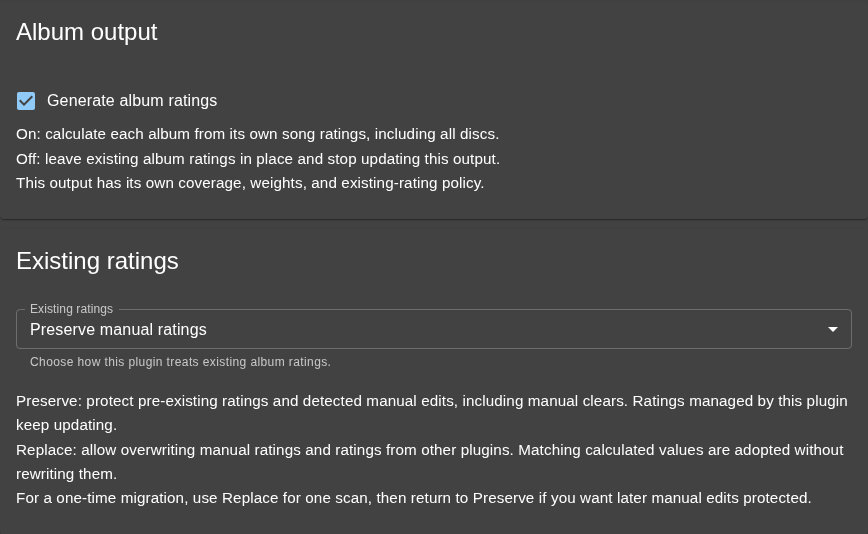
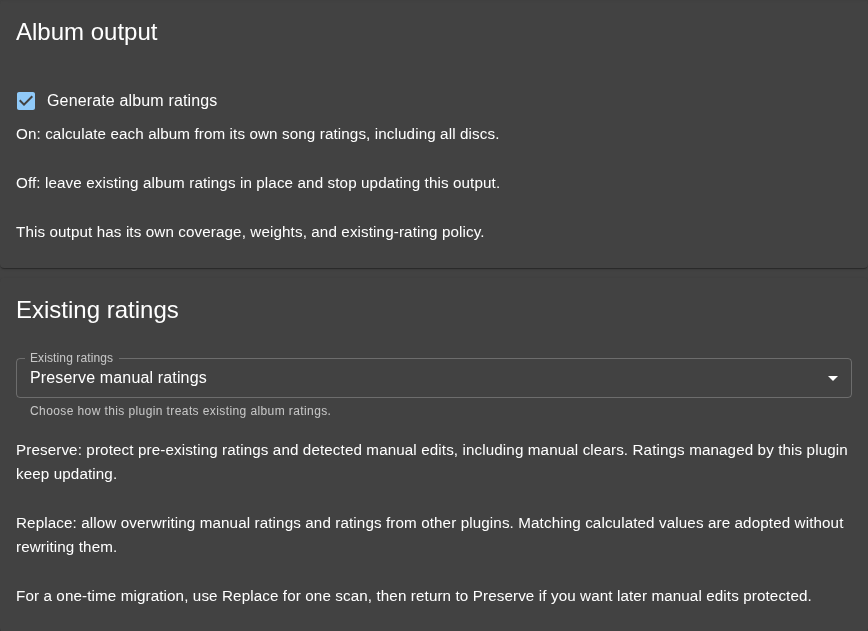
Add breathing room throughout plugin settings (v0.5.1)

diff --git a/src/plugin.js b/src/plugin.js
@@ -1,6 +1,6 @@
 "use strict";
 
-const VERSION = "0.5.0";
+const VERSION = "0.5.1";
 const NAME = "navidrome-automatic-rating-plugin";
 const AUDIT_SOURCE_FORMAT = "structured_song_ratings_v1";
 // Keep the durable namespace and host export names compatible with existing installs.

diff --git a/RELEASE_NOTES.md b/RELEASE_NOTES.md
@@ -1,27 +1,24 @@
-# navidrome-automatic-rating-plugin v0.5.0
+# navidrome-automatic-rating-plugin v0.5.1
 
-The plugin now uses its repository name in Navidrome and in its logs. New downloads are named `navidrome-automatic-rating-plugin.ndp`.
-
-## Existing installations
-
-**Keep your installed filename and plugin storage.** Verify the new download's checksum first, then rename it to your existing installed filename (usually `automatic-ratings.ndp`) and replace that package. Restart Navidrome after replacing it.
-
-Do not install both filenames. Navidrome uses the filename as the plugin ID; changing it creates a separate installation with separate settings, grants, and rating-ownership records.
-
-The displayed name will become `navidrome-automatic-rating-plugin` even when you retain the original installed filename. Storage keys, settings, and ownership records remain compatible.
+More space between configuration elements, especially on mobile screens.
 
 ## Changes
 
-- Rename the plugin's manifest/display name and log prefix to `navidrome-automatic-rating-plugin`.
-- Rename the release package and checksum to `navidrome-automatic-rating-plugin.ndp` and `navidrome-automatic-rating-plugin.ndp.sha256`.
-- Update downloads, build/release workflows, and documentation to use the new name.
-- Keep the offline audit verifier compatible with both new logs and older `Automatic Ratings:` logs.
-- Validate fresh installation under the new filename and an in-place upgrade from v0.4.1 under the original filename.
+- Add consistent blank-line spacing between help paragraphs throughout General, Albums, Artists, and Extra.
+- Separate explanations from the following setting, including the minimum rated-song count and below-coverage clearing controls.
+- Keep each setting's help together with its control and retain the existing tab layout.
+- Refresh the README screenshots to show the improved spacing.
 
-Rating calculations, configuration defaults, permissions, and the General, Albums, Artists, and Extra settings layout are unchanged.
+Rating calculations, settings, defaults, permissions, and ownership records are unchanged.
+
+## Upgrade
+
+Verify the download's checksum, then replace your installed package and restart Navidrome. Keep its current filename and plugin storage. If your installed file is still `automatic-ratings.ndp`, rename the new download to that filename after verification; do not install a second copy.
+
+Requires Navidrome 0.64.2 or newer with native plugins enabled.
 
 ## Validation
 
-120 source tests, compiled-WASM smoke checks, package integrity/checksum verification, and isolated official Navidrome 0.64.2 tests using fictional users and music. Integration covers the new filename, legacy-filename upgrades, live settings saves, scan requests, rating ownership, pending recovery, manual overrides, clearing, and song/file isolation.
+120 source tests, compiled-WASM smoke checks, package integrity/checksum verification, and the release workflow's isolated Navidrome integration and legacy-upgrade checks.
 
-Requires Navidrome 0.64.2 or newer with native plugins enabled. No production library was used.
+The real Navidrome settings editor was checked at 390 px, 430 px, and 1360 px widths: all four tabs, visible spacing, horizontal overflow, saved setting values, and browser errors. The added gaps measure approximately 24 px with the tested host theme. All data used for validation is fictional.

diff --git a/docs/CONFIGURATION.md b/docs/CONFIGURATION.md
@@ -4,7 +4,7 @@
 
 Change these settings in Navidrome's plugin UI. Follow the [operations guide](OPERATIONS.md#apply-settings-and-permissions) to apply changes. The [manifest](../manifest.json) contains the complete schema.
 
-The settings UI groups options under **General**, **Albums**, **Artists**, and **Extra**. General contains preview mode, the scan request switch, the daily UTC schedule, and artist credits. Each output switch is at the top of its own ratings tab. Help is displayed in separate text blocks so explanations have visible line breaks. General contains preview mode, the scan request switch, the daily UTC schedule, and artist credits. Each output switch is at the top of its own ratings tab. Help is displayed in separate text blocks so explanations have visible line breaks. General contains preview mode, the scan request switch, the daily UTC schedule, and artist credits. Each output switch is at the top of its own ratings tab. Help is displayed in separate text blocks so explanations have visible line breaks. The tables below use the configuration keys; dropdowns in Navidrome show readable labels for the same values.
+The settings UI groups options under **General**, **Albums**, **Artists**, and **Extra**. General contains preview mode, the scan request switch, the daily UTC schedule, and artist credits. Each output switch is at the top of its own ratings tab. Help is displayed in separate text blocks, with blank-line spacing between paragraphs and before the next setting. General contains preview mode, the scan request switch, the daily UTC schedule, and artist credits. Each output switch is at the top of its own ratings tab. Help is displayed in separate text blocks, with blank-line spacing between paragraphs and before the next setting. General contains preview mode, the scan request switch, the daily UTC schedule, and artist credits. Each output switch is at the top of its own ratings tab. Help is displayed in separate text blocks, with blank-line spacing between paragraphs and before the next setting. The tables below use the configuration keys; dropdowns in Navidrome show readable labels for the same values.
 
 ## Choose what to rate
 

diff --git a/docs/REFERENCE.md b/docs/REFERENCE.md
@@ -156,3 +156,5 @@ Run these commands from the repository root. `--wasm /path/to/previous/plugin.wa
 The plugin exports `nd_on_init`, `nd_scheduler_callback`, and `automatic_ratings_calculate` (input: `{histogram:[unrated,one,two,three,four,five],options:{...}}`). Host permissions cover Subsonic API, users, library metadata, scheduler, and KV. No filesystem, direct database, or external HTTP permission is requested. See the [manifest](../manifest.json) and [source](../src/plugin.js) for the complete contracts.
 
 The audit verifier accepts both current and legacy log prefixes. Durable `automatic-ratings:v1:` storage keys and the `automatic_ratings_calculate` host export retain their original names for compatibility. The plugin display name and new-install package name match the repository. CI tests both a fresh install under the new filename and an in-place upgrade from v0.4.1 under the original filename.
+
+The settings UI uses non-breaking-space Label elements as blank-line spacers. Navidrome 0.64.2’s JSON Forms 2.5.2 renderer fixes vertical layout spacing at zero and ignores margin options; these supported elements give paragraphs and following controls a visible gap without changing configuration values.
